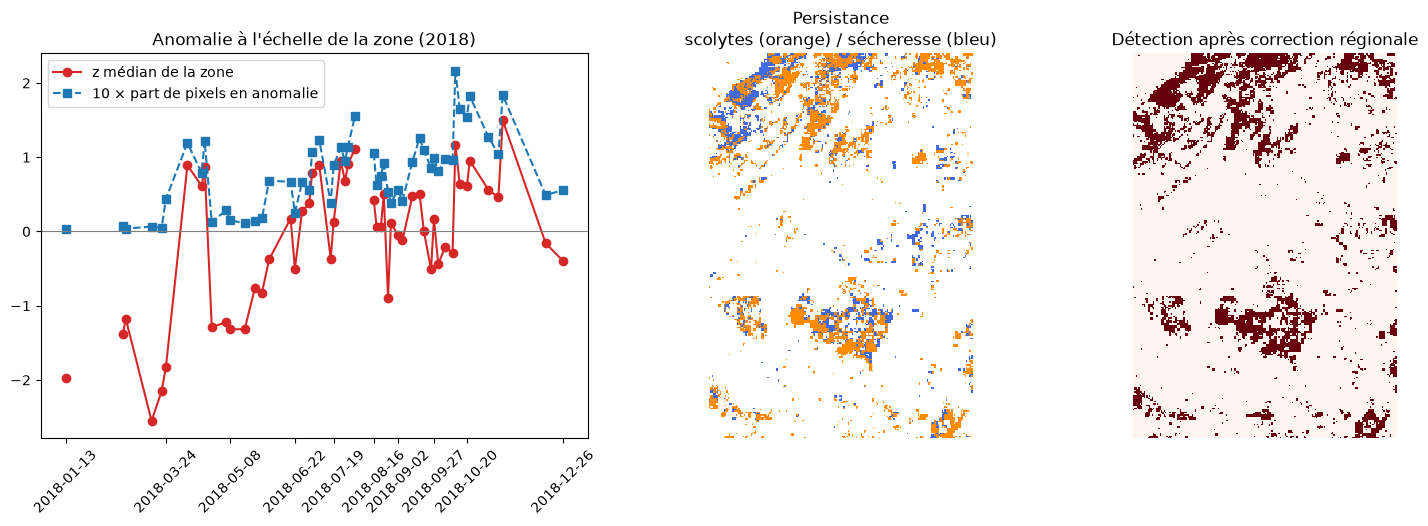
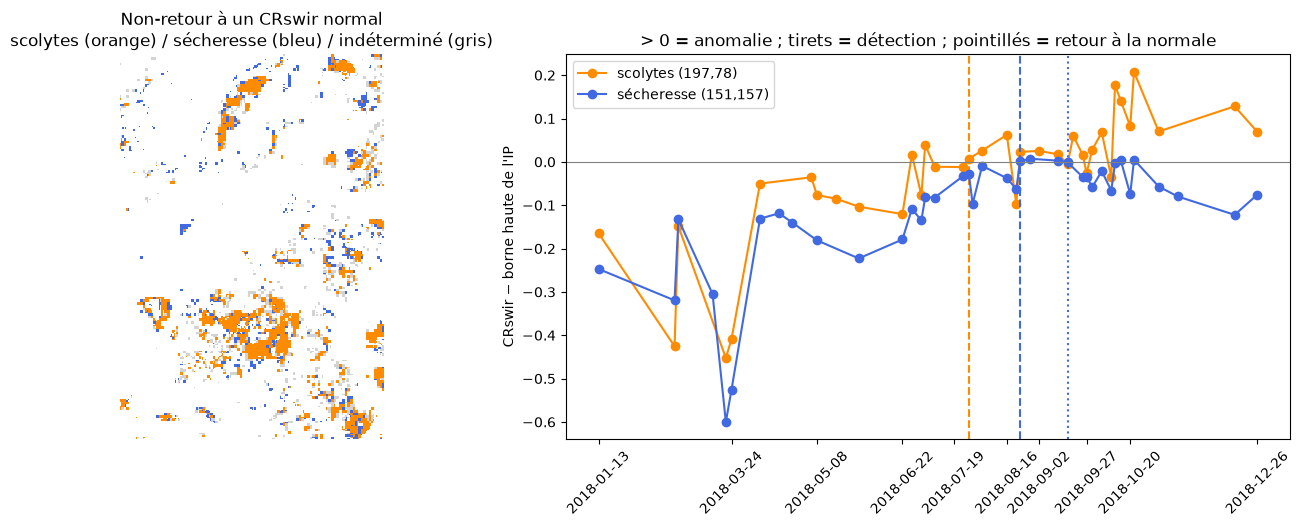
modif secheresse critere

diff --git a/main_CRswir.py b/main_CRswir.py
@@ -210,64 +210,77 @@ if __name__ == "__main__":
              date_detection=date_detection, test_dates=np.array(test_dates), foret=foret)
 
     # ==================================================================
-    # ÉTAPE 7 : sécheresse vs scolytes
+    # ÉTAPE 7 : sécheresse vs scolytes — critère de NON-RETOUR à un CRswir normal
     # ==================================================================
-    # Score d'anomalie normalisé : de combien d'écarts-types l'obs. dépasse la prédiction
-    z = (CRswir_test - pred_test["ts_hat"]) / model["std_hat"]      # (n, H, W)
-    z = np.where(mask_test, np.nan, z)
+    # Après la série d'anomalies qui a déclenché la détection, on regarde si le pixel
+    # redevient normal (CRswir sous la borne haute de l'IP) pendant K_RETOUR dates
+    # valides d'affilée :
+    #   - oui                                  -> l'arbre récupère : sécheresse
+    #   - non, avec au moins M_RECUL dates     -> pas de récupération : scolytes
+    #   - non, moins de M_RECUL dates observées -> pas assez de recul : indéterminé
+    K_RETOUR = 3      # dates normales d'affilée pour parler de "retour" (comme FORDEAD)
+    M_RECUL = 6       # dates valides minimum après la détection pour conclure "pas de retour"
+    normal = (CRswir_test <= pred_test["haut"]) & ~mask_test
 
-    # --- Critère 1 : anomalie synchrone sur toute la zone (signature sécheresse)
-    z_zone = np.nanmedian(z, axis=(1, 2))                           # (n,) une valeur par date
-    frac_zone = anomalie.sum(axis=(1, 2)) / (~mask_test).sum(axis=(1, 2))
-
-    # --- Critère 2 : persistance (scolytes = pas de retour à la normale)
-    N_FIN = 3        # nb de dernières dates valides regardées
-    classe7 = np.zeros((H, W), dtype=int)     # 0 sain, 1 scolytes, 2 sécheresse
+    classe_retour = np.zeros((H, W), dtype=int)   # 0 sain, 1 scolytes, 2 sécheresse, 3 indéterminé
+    date_retour = np.full((H, W), -1, dtype=int)  # indice de la 1re date du retour (-1 = aucun)
     for i in range(H):
         for j in range(W):
             if not deperissement[i, j]:
                 continue
             valides = np.where(~mask_test[:, i, j])[0]
-            apres = valides[valides > date_detection[i, j]]
-            fin = apres[-N_FIN:]
-            if len(fin) < N_FIN:
-                classe7[i, j] = 1                       # pas assez de recul : on garde scolytes
-            elif anomalie[fin, i, j].any():
-                classe7[i, j] = 1                       # toujours anormal en fin d'année -> scolytes
-            else:
-                classe7[i, j] = 2                       # revenu dans l'intervalle -> sécheresse
-
-    # --- Critère 3 : détection après correction de l'anomalie régionale
-    z_local = z - z_zone[:, None, None]                 # on retire l'effet "toute la zone"
-    q = 2.0                                             # ~ borne de l'IP 95 %
-    anomalie_locale = (z_local > q) & ~mask_test & foret
-    deperissement_local = np.zeros((H, W), dtype=bool)
-    for i in range(H):
-        for j in range(W):
+            # on saute les N_CONSEC dates valides de la série de détection
+            pos = np.searchsorted(valides, date_detection[i, j])
+            apres = valides[pos + N_CONSEC:]
             compteur = 0
-            for k in np.where(~mask_test[:, i, j])[0]:
-                compteur = compteur + 1 if anomalie_locale[k, i, j] else 0
-                if compteur == N_CONSEC:
-                    deperissement_local[i, j] = True
-                    break
+            for k in apres:
+                if normal[k, i, j]:
+                    compteur += 1
+                    if compteur == 1:
+                        debut_retour = k
+                    if compteur == K_RETOUR:
+                        date_retour[i, j] = debut_retour
+                        break
+                else:
+                    compteur = 0
+            if date_retour[i, j] >= 0:
+                classe_retour[i, j] = 2                 # retour à la normale -> sécheresse
+            elif len(apres) >= M_RECUL:
+                classe_retour[i, j] = 1                 # jamais revenu malgré le recul -> scolytes
+            else:
+                classe_retour[i, j] = 3                 # pas assez de recul -> indéterminé
 
     n = deperissement.sum()
     print(f"[Étape 7] dépérissants : {n}")
-    print(f"  critère 2 persistance -> scolytes {(classe7 == 1).sum()} | sécheresse {(classe7 == 2).sum()}")
-    print(f"  critère 3 correction régionale -> restent {(deperissement & deperissement_local).sum()} "
-          f"(les {(deperissement & ~deperissement_local).sum()} autres = effet zone / sécheresse)")
+    for c, nom in [(1, "scolytes (pas de retour)"), (2, "sécheresse (retour à la normale)"),
+                   (3, "indéterminé (pas assez de recul)")]:
+        print(f"  {nom:35s}: {(classe_retour == c).sum():5d} ({100 * (classe_retour == c).sum() / n:.0f} %)")
 
-    fig, axs = plt.subplots(1, 3, figsize=(18, 5), gridspec_kw={"width_ratios": [1.6, 1, 1]})
-    axs[0].plot(days_test, z_zone, "o-", color="tab:red", label="z médian de la zone")
-    axs[0].plot(days_test, 10 * frac_zone, "s--", color="tab:blue", label="10 × part de pixels en anomalie")
-    axs[0].axhline(0, color="grey", lw=0.8)
+    np.savez("secheresse_2018.npz", classe_retour=classe_retour, date_retour=date_retour,
+             test_dates=np.array(test_dates))
+
+    # Carte + un exemple de série par classe
+    fig, axs = plt.subplots(1, 2, figsize=(16, 5), gridspec_kw={"width_ratios": [1, 1.8]})
+    cmap7 = ListedColormap(["white", "darkorange", "royalblue", "lightgrey"])
+    axs[0].imshow(classe_retour, cmap=cmap7, vmin=0, vmax=3, interpolation="nearest")
+    axs[0].set_title("Non-retour à un CRswir normal\nscolytes (orange) / sécheresse (bleu) / indéterminé (gris)")
+    axs[0].axis("off")
+    for c, couleur, nom in [(1, "darkorange", "scolytes"), (2, "royalblue", "sécheresse")]:
+        idx = np.argwhere(classe_retour == c)
+        if len(idx) == 0:
+            continue
+        i, j = idx[len(idx) // 2]
+        ok = ~mask_test[:, i, j]
+        axs[1].plot(days_test[ok], CRswir_test[ok, i, j] - pred_test["haut"][ok, i, j], "o-",
+                    color=couleur, label=f"{nom} ({i},{j})")
+        axs[1].axvline(days_test[date_detection[i, j]], color=couleur, linestyle="--")
+        if date_retour[i, j] >= 0:
+            axs[1].axvline(days_test[date_retour[i, j]], color=couleur, linestyle=":")
+    axs[1].axhline(0, color="grey", lw=0.8)
+    axs[1].set_ylabel("CRswir − borne haute de l'IP")
     xt = np.arange(len(test_dates))[::6]
-    axs[0].set_xticks(days_test[xt], labels=np.array(test_dates)[xt], rotation=45)
-    axs[0].legend(); axs[0].set_title("Anomalie à l'échelle de la zone (2018)")
-    cmap7 = ListedColormap(["white", "darkorange", "royalblue"])
-    axs[1].imshow(classe7, cmap=cmap7, vmin=0, vmax=2, interpolation="nearest")
-    axs[1].set_title("Persistance\nscolytes (orange) / sécheresse (bleu)"); axs[1].axis("off")
-    axs[2].imshow(deperissement_local, cmap="Reds", interpolation="nearest")
-    axs[2].set_title("Détection après correction régionale"); axs[2].axis("off")
+    axs[1].set_xticks(days_test[xt], labels=np.array(test_dates)[xt], rotation=45)
+    axs[1].legend()
+    axs[1].set_title("> 0 = anomalie ; tirets = détection ; pointillés = retour à la normale")
     plt.savefig("Secheresse_vs_scolytes_2018.png", bbox_inches="tight")
     plt.show()
